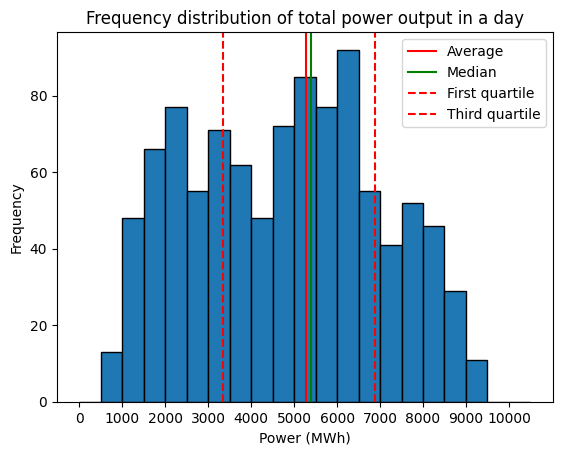
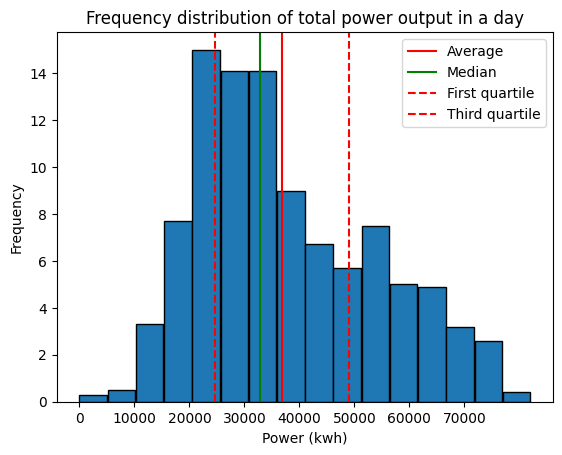
README update

diff --git a/README.md b/README.md
@@ -1,8 +1,8 @@
 # Solar-field-output-simulation-by-Monte-Carlo-method
 
 Being able to predict the energy output of a solar field in a given day and, in a broader sense, an average day is of paramount importance:
-1) in the first case, it allows to the owner of the plant to sell a power profile to the grid during the daily energy trading activities;
-2) in the second case, it is important to simulate the power output of a solar field before its realization in order to evaluate the profitability of the investment.
+1) in the first case, it allows traders to bid a power profile during the daily energy trading activities;
+2) in the second case, it is important to simulate the power output of a solar field before its realization in order to evaluate the profitability of a possible investment.
 
 For this reason, I decided to use some common python libraries (*math, random, numpy*) to implement a model that answer the first question and a Monte Carlo simulation that, applied to said model, allows to statistically describe the output of a solar field on a given day.
 
@@ -13,6 +13,11 @@ For this reason, I decided to use some common python libraries (*math, random, n
 >4) aggregate the results. 
 
 > IMPORTANT: The Jupyter notebook containing the code can be found and downloaded [HERE](https://github.com/Andrea1999Broglia/Solar-field-output-Montecarlo-analysis/blob/main/model.ipynb)
+
+# The Data
+This model aims at simulating the performance of 10 MW solar field in Milan. As a conseuqence, the weather phenomena distribution was based on the historical data provided by [Il Meteo](https://www.ilmeteo.it/portale/archivio-meteo).
+
+Moreover, the expected daily power output was compared with the data regarding the energy price in Milan during all of 2024 (Prezzo zonale Nord) provided by [GME](https://www.mercatoelettrico.org/it-it/Home/Esiti/Elettricita/MGP/Esiti/PUN).
 
 # The model
 The equation used to calculate the power output of the plant at any given moment is the following equation reported by Brecl et al. [1]:
@@ -124,23 +129,19 @@ For what concerns the cumulate energy production per day, the results are displa
   <img src="images/frequency.png"  width="400">
 </div>
 
-The values range, in this simulation, from 1175 MWh to 9813 MWh, with an average of 5281 MWh.
+In this simulation, the minimum daily power output was 294 kwh, the maximum was 76245 kWh, and the average was 36850 kwh which corresponds to 1351 equivalent hours per year. 
 
-> Note that for a 1000 MW solar field, an energy production of 5281 MWh/day corresponds to around 1936 yearly working hours. 
-
-In order to evaluate the change of the daily average power output in different moments of the year, it was estimated for 365 days in a range of latitudes form 0° to 60°. The result is plotted in a heatmap.
-
+# Energy Price
+It was deemed of interest to compare the average daily power profile with the average daily power price, as seen in the following graph:
 <div style="text-align: center;">
-  <img src="images/heatmap.png"  width="400">
+  <img src="images\PZ comparison.png"  width="650">
 </div>
+ 
+The average price is around 108 €/MWh, but since there is a lack of overlap between the energy price and output, it is reasonable to expect that this phenomenon could damage the revenue stream of the solar field.
 
-It may surprise the presence days with a higher power output at higher latitudes, but while at the equator the days all last (about) 12 hours, at higher latitudes there are days that last way longer resulting in higher daily outputs.
-
-Still, given that the weather class get higher approaching the equator, the average daily power output over a year increases lowering the latitude; in the same fashion, the standard error lowers due to the increasing of the weather class lower bound as shown in the following graph:
-
-<div style="text-align: center;">
-  <img src="images/latitude behavior.png"  width="400">
-</div>
+As a matter of fact, by calculating the power output-weighted average price, the resulting price is lowered to 99.55 €/MWh. 
+This phenomenon, detrimental to the profitability of solar fields, is called _duck curve_.
+ 
 
 # Bibliography
 1) > **Kristijan Brecl**, **Marko Topič**, *Photovoltaics (PV) System Energy Forecast on the Basis of the Local Weather Forecast: Problems, Uncertainties and Solutions*, Energies, Volume 11, 2018, Number 5, Article Number 1143, [DOI: 10.3390/en11051143](https://doi.org/10.3390/en11051143).  
